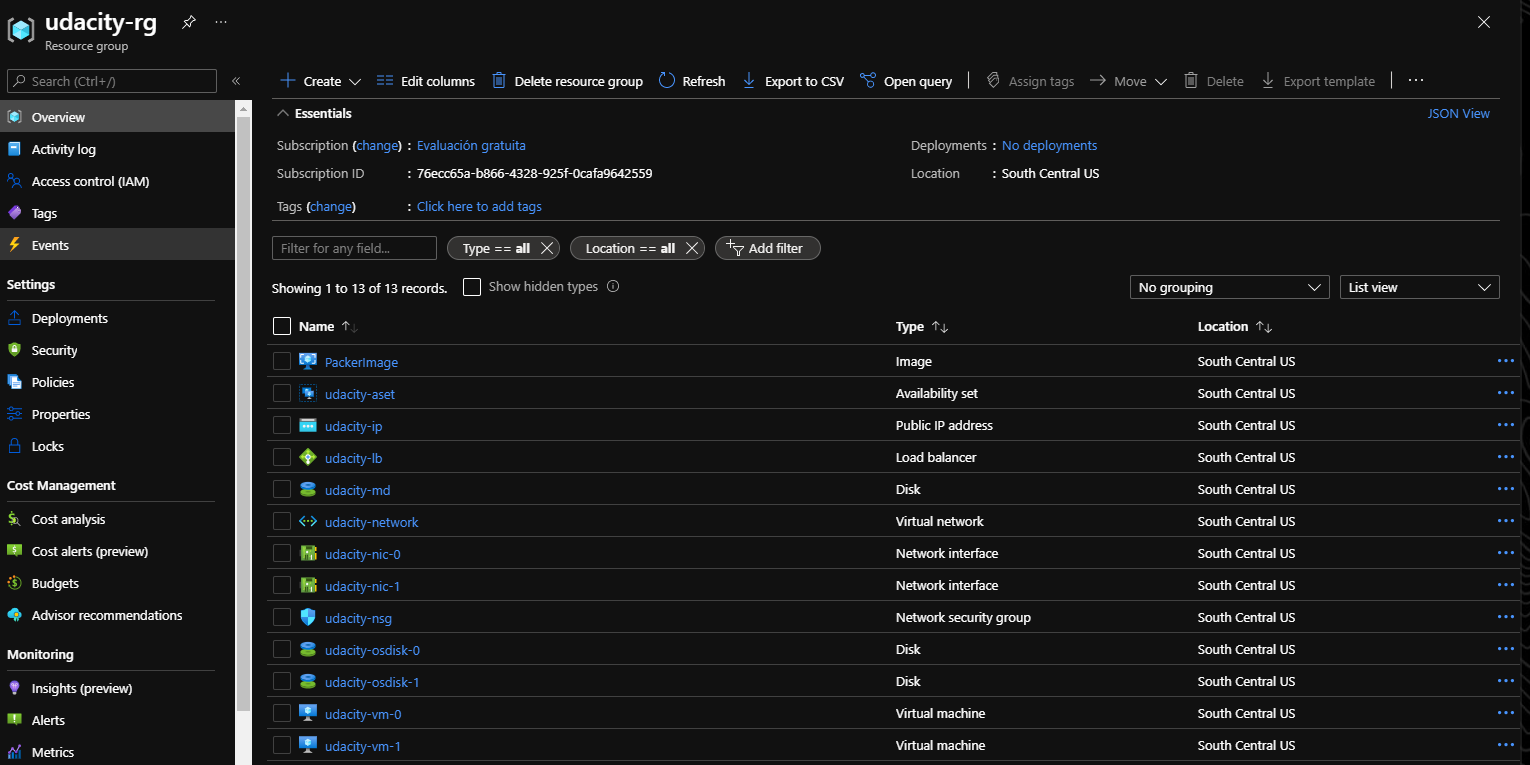
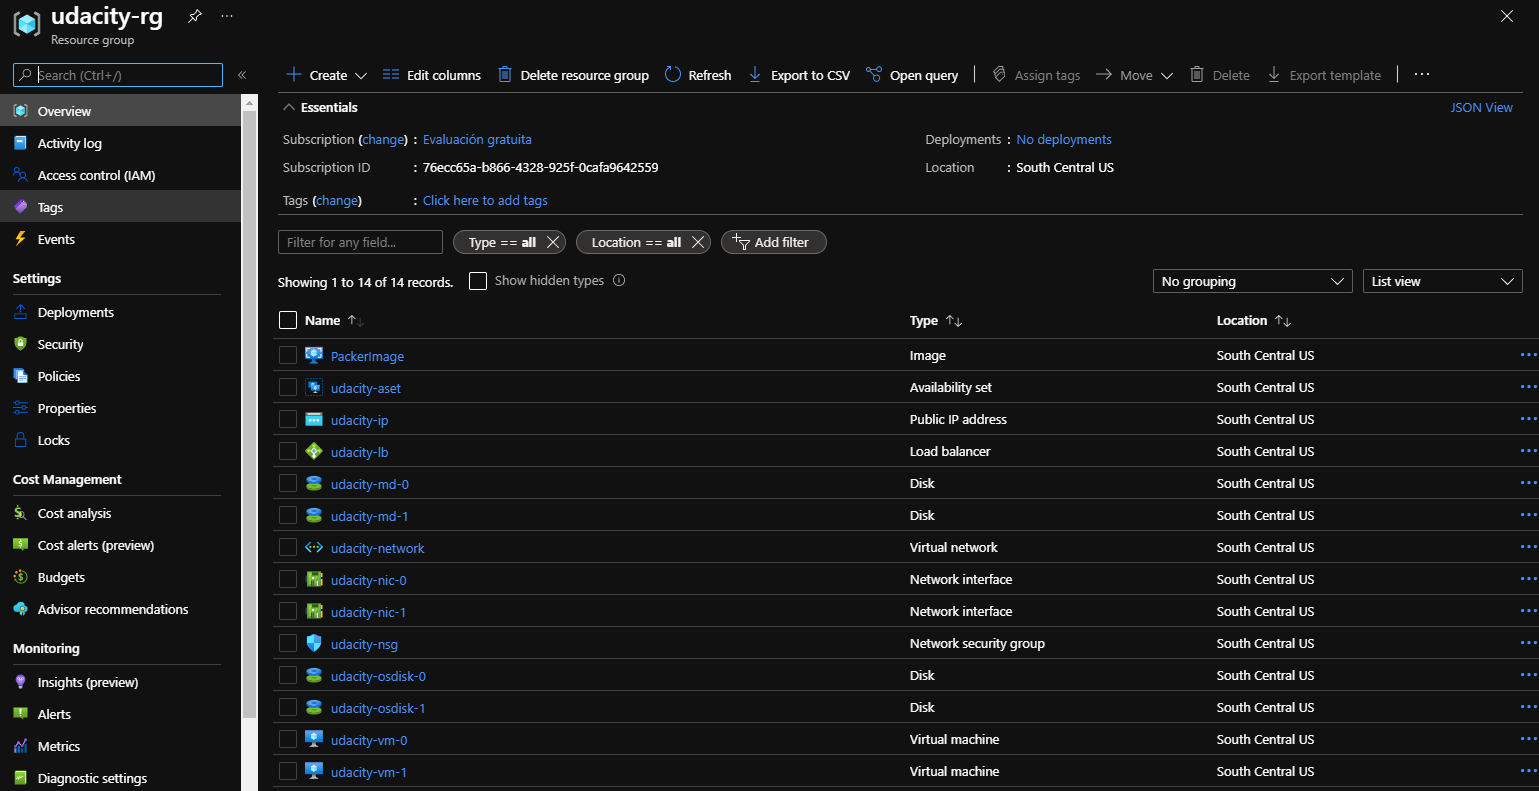
Added count for managed disk

diff --git a/README.md b/README.md
@@ -240,45 +240,69 @@ While the infrastructure is deploying, we should get an output similar to this:
 
 ```bash
 azurerm_virtual_network.main: Creating...
-azurerm_public_ip.main: Creating...
-azurerm_managed_disk.main: Creating...
 azurerm_availability_set.main: Creating...
+azurerm_public_ip.main: Creating...
+azurerm_managed_disk.main[1]: Creating...
+azurerm_managed_disk.main[0]: Creating...
 azurerm_network_security_group.main: Creating...
 azurerm_availability_set.main: Creation complete after 1s [id=/subscriptions/76ecc65a-b866-4328-925f-0cafa9642559/resourceGroups/udacity-rg/providers/Microsoft.Compute/availabilitySets/udacity-aset]
-azurerm_public_ip.main: Creation complete after 2s [id=/subscriptions/76ecc65a-b866-4328-925f-0cafa9642559/resourceGroups/udacity-rg/providers/Microsoft.Network/publicIPAddresses/udacity-ip]
+azurerm_managed_disk.main[0]: Creation complete after 3s [id=/subscriptions/76ecc65a-b866-4328-925f-0cafa9642559/resourceGroups/udacity-rg/providers/Microsoft.Compute/disks/udacity-md-0]
+azurerm_managed_disk.main[1]: Creation complete after 3s [id=/subscriptions/76ecc65a-b866-4328-925f-0cafa9642559/resourceGroups/udacity-rg/providers/Microsoft.Compute/disks/udacity-md-1]
+azurerm_virtual_network.main: Creation complete after 4s [id=/subscriptions/76ecc65a-b866-4328-925f-0cafa9642559/resourceGroups/udacity-rg/providers/Microsoft.Network/virtualNetworks/udacity-network]
+azurerm_subnet.main: Creating...
+azurerm_public_ip.main: Creation complete after 4s [id=/subscriptions/76ecc65a-b866-4328-925f-0cafa9642559/resourceGroups/udacity-rg/providers/Microsoft.Network/publicIPAddresses/udacity-ip]
 azurerm_lb.main: Creating...
+azurerm_network_security_group.main: Creation complete after 4s [id=/subscriptions/76ecc65a-b866-4328-925f-0cafa9642559/resourceGroups/udacity-rg/providers/Microsoft.Network/networkSecurityGroups/udacity-nsg]
 azurerm_lb.main: Creation complete after 1s [id=/subscriptions/76ecc65a-b866-4328-925f-0cafa9642559/resourceGroups/udacity-rg/providers/Microsoft.Network/loadBalancers/udacity-lb]
 azurerm_lb_backend_address_pool.main: Creating...
-azurerm_managed_disk.main: Creation complete after 3s [id=/subscriptions/76ecc65a-b866-4328-925f-0cafa9642559/resourceGroups/udacity-rg/providers/Microsoft.Compute/disks/udacity-md]
 azurerm_lb_backend_address_pool.main: Creation complete after 1s [id=/subscriptions/76ecc65a-b866-4328-925f-0cafa9642559/resourceGroups/udacity-rg/providers/Microsoft.Network/loadBalancers/udacity-lb/backendAddressPools/udacity-bap]
-azurerm_virtual_network.main: Creation complete after 4s [id=/subscriptions/76ecc65a-b866-4328-925f-0cafa9642559/resourceGroups/udacity-rg/providers/Microsoft.Network/virtualNetworks/udacity-network]
-azurerm_network_security_group.main: Creation complete after 4s [id=/subscriptions/76ecc65a-b866-4328-925f-0cafa9642559/resourceGroups/udacity-rg/providers/Microsoft.Network/networkSecurityGroups/udacity-nsg]
-azurerm_subnet.main: Creating...
 azurerm_subnet.main: Creation complete after 4s [id=/subscriptions/76ecc65a-b866-4328-925f-0cafa9642559/resourceGroups/udacity-rg/providers/Microsoft.Network/virtualNetworks/udacity-network/subnets/udacity-subnet]
-azurerm_network_interface.main[1]: Creating...
 azurerm_network_interface.main[0]: Creating...
-azurerm_network_interface.main[0]: Creation complete after 3s [id=/subscriptions/76ecc65a-b866-4328-925f-0cafa9642559/resourceGroups/udacity-rg/providers/Microsoft.Network/networkInterfaces/udacity-nic-0]
-azurerm_network_interface.main[1]: Creation complete after 4s [id=/subscriptions/76ecc65a-b866-4328-925f-0cafa9642559/resourceGroups/udacity-rg/providers/Microsoft.Network/networkInterfaces/udacity-nic-1]
+azurerm_network_interface.main[1]: Creating...
+azurerm_network_interface.main[0]: Creation complete after 1s [id=/subscriptions/76ecc65a-b866-4328-925f-0cafa9642559/resourceGroups/udacity-rg/providers/Microsoft.Network/networkInterfaces/udacity-nic-0]
+azurerm_network_interface.main[1]: Creation complete after 1s [id=/subscriptions/76ecc65a-b866-4328-925f-0cafa9642559/resourceGroups/udacity-rg/providers/Microsoft.Network/networkInterfaces/udacity-nic-1]
+azurerm_network_interface_backend_address_pool_association.main[0]: Creating...
+azurerm_network_interface_security_group_association.main[1]: Creating...
+azurerm_network_interface_backend_address_pool_association.main[1]: Creating...
+azurerm_network_interface_security_group_association.main[0]: Creating...
 azurerm_linux_virtual_machine.main[0]: Creating...
 azurerm_linux_virtual_machine.main[1]: Creating...
-azurerm_network_interface_backend_address_pool_association.main[1]: Creating...
-azurerm_network_interface_security_group_association.main[1]: Creating...
-azurerm_network_interface_backend_address_pool_association.main[0]: Creating...
-azurerm_network_interface_security_group_association.main[0]: Creating...
+azurerm_network_interface_security_group_association.main[1]: Creation complete after 1s [id=/subscriptions/76ecc65a-b866-4328-925f-0cafa9642559/resourceGroups/udacity-rg/providers/Microsoft.Network/networkInterfaces/udacity-nic-1|/subscriptions/76ecc65a-b866-4328-925f-0cafa9642559/resourceGroups/udacity-rg/providers/Microsoft.Network/networkSecurityGroups/udacity-nsg] 
 azurerm_network_interface_backend_address_pool_association.main[0]: Creation complete after 1s [id=/subscriptions/76ecc65a-b866-4328-925f-0cafa9642559/resourceGroups/udacity-rg/providers/Microsoft.Network/networkInterfaces/udacity-nic-0/ipConfigurations/udacity-ipconfig|/subscriptions/76ecc65a-b866-4328-925f-0cafa9642559/resourceGroups/udacity-rg/providers/Microsoft.Network/loadBalancers/udacity-lb/backendAddressPools/udacity-bap]
+azurerm_network_interface_backend_address_pool_association.main[1]: Creation complete after 1s [id=/subscriptions/76ecc65a-b866-4328-925f-0cafa9642559/resourceGroups/udacity-rg/providers/Microsoft.Network/networkInterfaces/udacity-nic-1/ipConfigurations/udacity-ipconfig|/subscriptions/76ecc65a-b866-4328-925f-0cafa9642559/resourceGroups/udacity-rg/providers/Microsoft.Network/loadBalancers/udacity-lb/backendAddressPools/udacity-bap]
 azurerm_network_interface_security_group_association.main[0]: Creation complete after 1s [id=/subscriptions/76ecc65a-b866-4328-925f-0cafa9642559/resourceGroups/udacity-rg/providers/Microsoft.Network/networkInterfaces/udacity-nic-0|/subscriptions/76ecc65a-b866-4328-925f-0cafa9642559/resourceGroups/udacity-rg/providers/Microsoft.Network/networkSecurityGroups/udacity-nsg] 
-azurerm_network_interface_backend_address_pool_association.main[1]: Creation complete after 3s [id=/subscriptions/76ecc65a-b866-4328-925f-0cafa9642559/resourceGroups/udacity-rg/providers/Microsoft.Network/networkInterfaces/udacity-nic-1/ipConfigurations/udacity-ipconfig|/subscriptions/76ecc65a-b866-4328-925f-0cafa9642559/resourceGroups/udacity-rg/providers/Microsoft.Network/loadBalancers/udacity-lb/backendAddressPools/udacity-bap]
-azurerm_network_interface_security_group_association.main[1]: Creation complete after 3s [id=/subscriptions/76ecc65a-b866-4328-925f-0cafa9642559/resourceGroups/udacity-rg/providers/Microsoft.Network/networkInterfaces/udacity-nic-1|/subscriptions/76ecc65a-b866-4328-925f-0cafa9642559/resourceGroups/udacity-rg/providers/Microsoft.Network/networkSecurityGroups/udacity-nsg] 
-azurerm_linux_virtual_machine.main[0]: Still creating... [10s elapsed]
 azurerm_linux_virtual_machine.main[1]: Still creating... [10s elapsed]
-azurerm_linux_virtual_machine.main[0]: Still creating... [20s elapsed]
+azurerm_linux_virtual_machine.main[0]: Still creating... [10s elapsed]
 azurerm_linux_virtual_machine.main[1]: Still creating... [20s elapsed]
+azurerm_linux_virtual_machine.main[0]: Still creating... [20s elapsed]
 azurerm_linux_virtual_machine.main[0]: Still creating... [30s elapsed]
 azurerm_linux_virtual_machine.main[1]: Still creating... [30s elapsed]
 azurerm_linux_virtual_machine.main[1]: Still creating... [40s elapsed]
 azurerm_linux_virtual_machine.main[0]: Still creating... [40s elapsed]
-azurerm_linux_virtual_machine.main[0]: Creation complete after 46s [id=/subscriptions/76ecc65a-b866-4328-925f-0cafa9642559/resourceGroups/udacity-rg/providers/Microsoft.Compute/virtualMachines/udacity-vm-0]
-azurerm_linux_virtual_machine.main[1]: Creation complete after 46s [id=/subscriptions/76ecc65a-b866-4328-925f-0cafa9642559/resourceGroups/udacity-rg/providers/Microsoft.Compute/virtualMachines/udacity-vm-1]
+azurerm_linux_virtual_machine.main[1]: Creation complete after 47s [id=/subscriptions/76ecc65a-b866-4328-925f-0cafa9642559/resourceGroups/udacity-rg/providers/Microsoft.Compute/virtualMachines/udacity-vm-1]
+azurerm_linux_virtual_machine.main[0]: Still creating... [50s elapsed]
+azurerm_linux_virtual_machine.main[0]: Still creating... [1m0s elapsed]
+azurerm_linux_virtual_machine.main[0]: Still creating... [1m10s elapsed]
+azurerm_linux_virtual_machine.main[0]: Still creating... [1m20s elapsed]
+azurerm_linux_virtual_machine.main[0]: Still creating... [1m30s elapsed]
+azurerm_linux_virtual_machine.main[0]: Still creating... [1m40s elapsed]
+azurerm_linux_virtual_machine.main[0]: Creation complete after 1m47s [id=/subscriptions/76ecc65a-b866-4328-925f-0cafa9642559/resourceGroups/udacity-rg/providers/Microsoft.Compute/virtualMachines/udacity-vm-0]
+azurerm_virtual_machine_data_disk_attachment.main[1]: Creating...
+azurerm_virtual_machine_data_disk_attachment.main[0]: Creating...
+azurerm_virtual_machine_data_disk_attachment.main[1]: Still creating... [10s elapsed]
+azurerm_virtual_machine_data_disk_attachment.main[0]: Still creating... [10s elapsed]
+azurerm_virtual_machine_data_disk_attachment.main[1]: Still creating... [20s elapsed]
+azurerm_virtual_machine_data_disk_attachment.main[0]: Still creating... [20s elapsed]
+azurerm_virtual_machine_data_disk_attachment.main[0]: Still creating... [30s elapsed]
+azurerm_virtual_machine_data_disk_attachment.main[1]: Still creating... [30s elapsed]
+azurerm_virtual_machine_data_disk_attachment.main[1]: Still creating... [40s elapsed]
+azurerm_virtual_machine_data_disk_attachment.main[0]: Still creating... [40s elapsed]
+azurerm_virtual_machine_data_disk_attachment.main[0]: Still creating... [50s elapsed]
+azurerm_virtual_machine_data_disk_attachment.main[1]: Still creating... [50s elapsed]
+azurerm_virtual_machine_data_disk_attachment.main[1]: Still creating... [1m0s elapsed]
+azurerm_virtual_machine_data_disk_attachment.main[0]: Still creating... [1m0s elapsed]
+azurerm_virtual_machine_data_disk_attachment.main[0]: Creation complete after 1m1s [id=/subscriptions/76ecc65a-b866-4328-925f-0cafa9642559/resourceGroups/udacity-rg/providers/Microsoft.Compute/virtualMachines/udacity-vm-0/dataDisks/udacity-md-0]   
+azurerm_virtual_machine_data_disk_attachment.main[1]: Creation complete after 1m1s [id=/subscriptions/76ecc65a-b866-4328-925f-0cafa9642559/resourceGroups/udacity-rg/providers/Microsoft.Compute/virtualMachines/udacity-vm-1/dataDisks/udacity-md-1] 
 ```
 
 After we have deployed our infrastructure, we should get a confirmation message from Terraform
